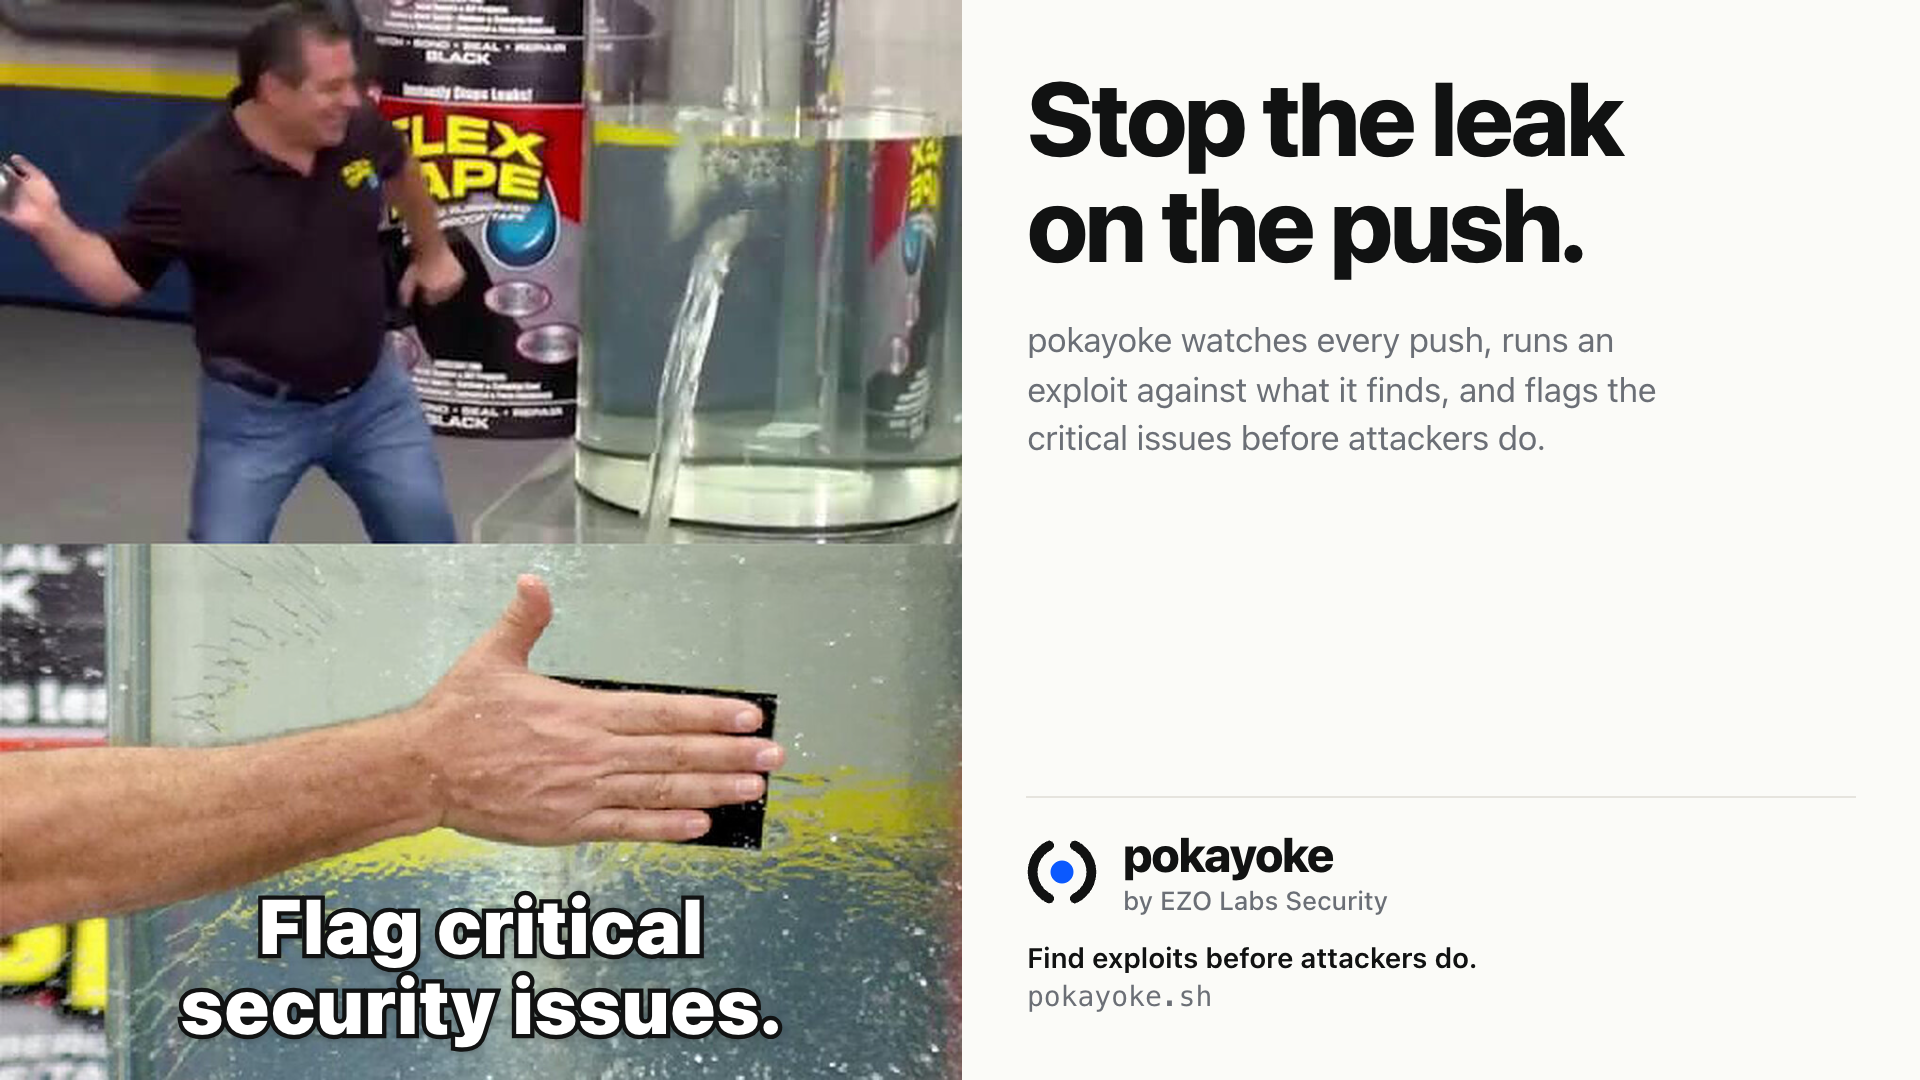
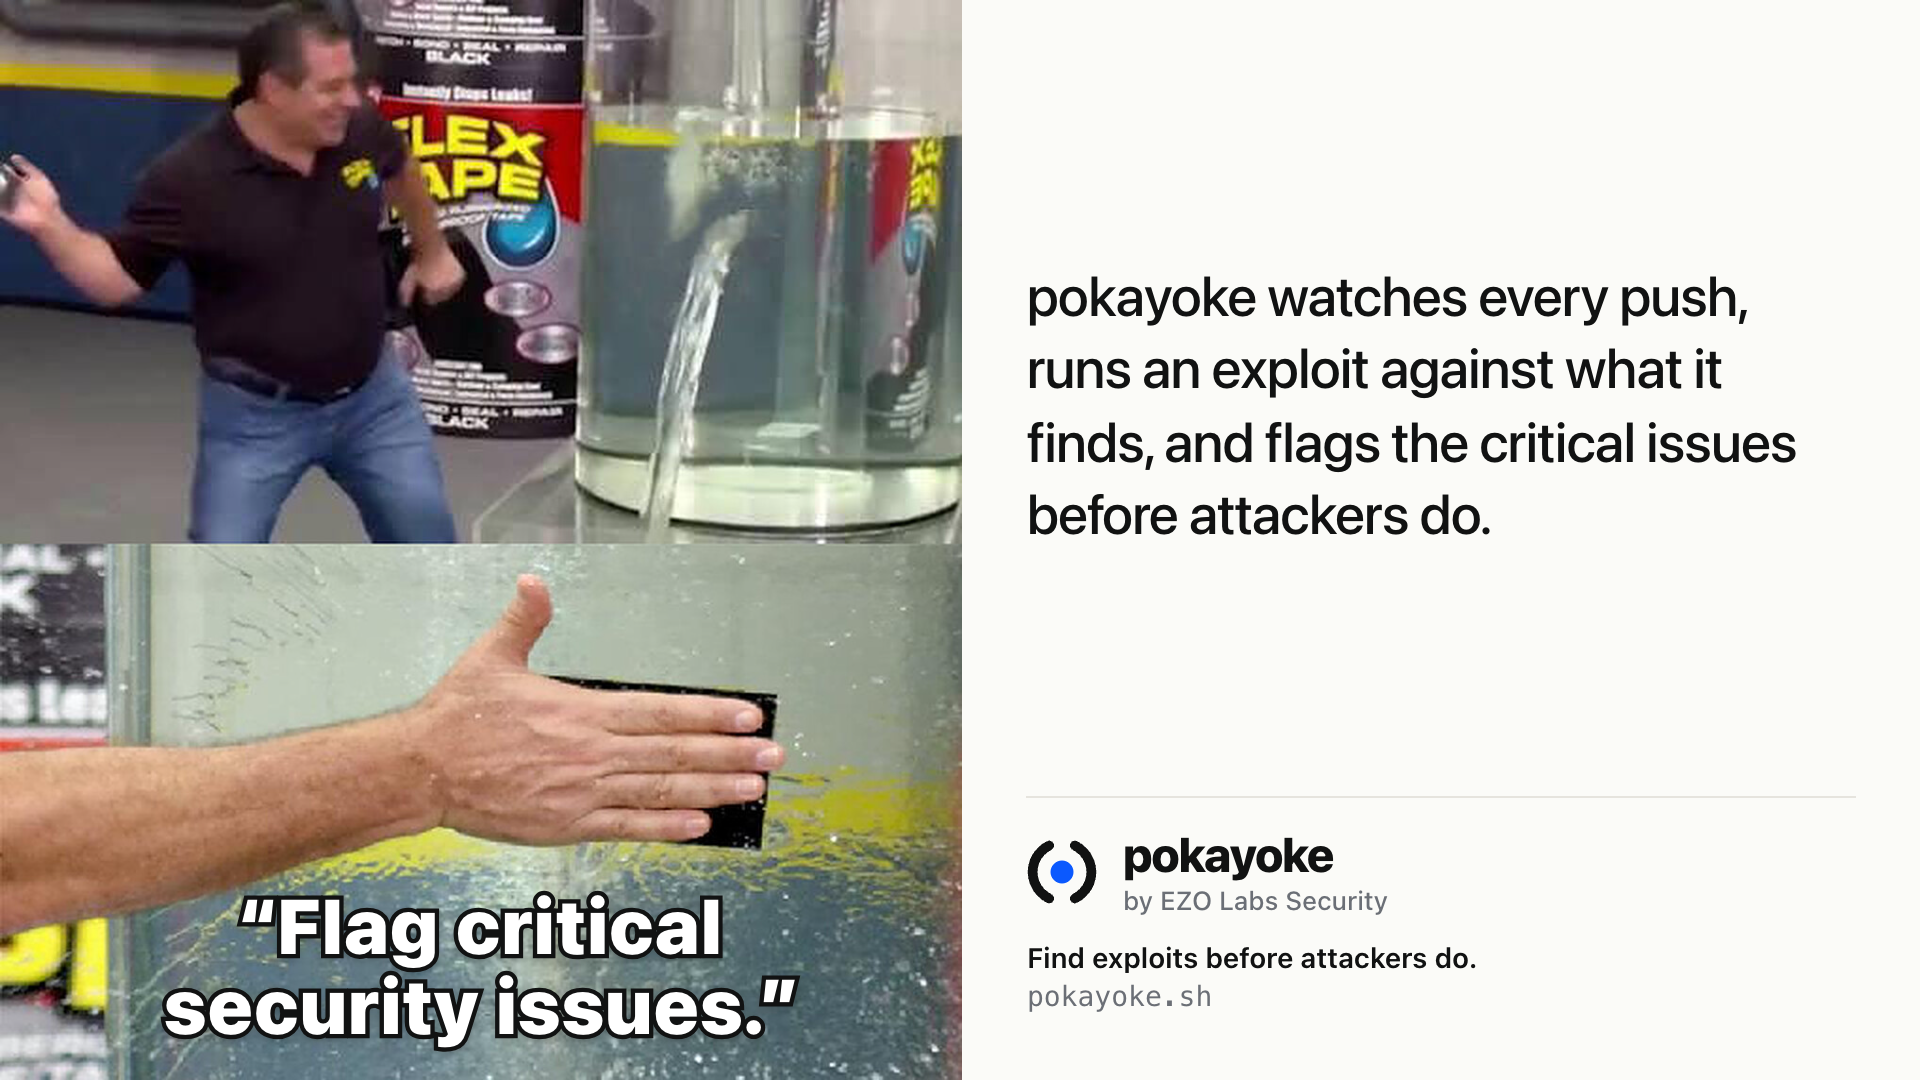
PKY-0006: put the meme's bottom text in quotation marks and drop the "Stop the leak on the push." headline

Changed region(s): [[0.5312, 0.0611, 0.9375, 0.4278], [0.0625, 0.825, 0.4375, 0.9778], [0.5312, 0.4583, 0.7812, 0.5194]]

diff --git a/ads/PKY-0006/ad.html b/ads/PKY-0006/ad.html
@@ -10,8 +10,9 @@
 <link rel="stylesheet" href="../../brand/tokens.css">
 <!--
   Meme: Flex Tape (imgflip template 166969924, the same frames as the user's image), upscaled 2x to meme.jpg
-  (1020x1144). The user asked for "Flag critical security issues." at the bottom: it is the meme's bottom text.
-  Layouts: 16:9 meme left, panel right. 4:5 meme full width over a brand band. 9:16 hook, meme, brand band.
+  (1020x1144). The user asked for "Flag critical security issues." at the bottom, in quotation marks: it is the
+  meme's bottom text. No headline: the meme carries the ad.
+  Layouts: 16:9 meme left, panel right. 4:5 meme full width over a brand band. 9:16 meme, then line and brand band.
 -->
 <style>
   :root { --frame-w: 960px; --frame-h: 540px; }
@@ -27,7 +28,7 @@
     color: var(--color-ink);
     -webkit-font-smoothing: antialiased;
   }
-  p, h1 { margin: 0; }
+  p { margin: 0; }
 
   .ad {
     width: 100%;
@@ -38,15 +39,11 @@
     grid-template-rows: 100%;
     grid-template-areas: "meme panel";
   }
-  [data-ratio="4x5"] .ad {
+  [data-ratio="4x5"] .ad,
+  [data-ratio="9x16"] .ad {
     grid-template-columns: 1fr;
     grid-template-rows: auto minmax(0, 1fr);
     grid-template-areas: "meme" "panel";
-  }
-  [data-ratio="9x16"] .ad {
-    grid-template-columns: 1fr;
-    grid-template-rows: auto auto minmax(0, 1fr);
-    grid-template-areas: "hook" "meme" "panel";
   }
 
   /* The meme and its bottom text, sized in the meme's own width (cqw) so it reads the same in every ratio */
@@ -58,7 +55,7 @@
     position: absolute;
     left: 50%;
     bottom: 3.5cqw;
-    width: 92%;
+    width: 94%;
     transform: translateX(-50%);
     text-align: center;
     text-wrap: balance;
@@ -72,38 +69,29 @@
     text-shadow: 0 0.4cqw 1.2cqw color-mix(in srgb, var(--color-ink) 45%, transparent);
   }
 
-  /* Hook, line and lockup. The hook sits above the meme in 9:16 and inside the panel in 16:9. */
-  .ad > .hook { display: none; }
-  [data-ratio="9x16"] .ad > .hook { display: block; }
-  .hook {
-    font-size: 52px;
-    font-weight: 800;
-    letter-spacing: -1.8px;
-    line-height: 1.02;
-    text-wrap: balance;
-  }
-  [data-ratio="9x16"] .hook {
-    grid-area: hook;
-    padding: var(--space-40) var(--space-40) var(--space-24);
-    font-size: 60px;
-    letter-spacing: -2.2px;
-  }
+  /* The line and the lockup */
   .panel {
     grid-area: panel;
     min-height: 0;
-    padding: var(--space-32) var(--space-32);
+    padding: var(--space-32);
     display: flex;
     flex-direction: column;
-    gap: var(--space-20);
+    gap: var(--space-24);
   }
-  [data-ratio="9x16"] .panel .hook,
-  [data-ratio="4x5"] .panel .hook,
-  [data-ratio="9x16"] .line,
+  .line {
+    margin-block: auto;
+    max-width: 24ch;
+    font-size: 28px;
+    font-weight: 500;
+    letter-spacing: -0.6px;
+    line-height: 1.3;
+    text-wrap: pretty;
+  }
+  [data-ratio="9x16"] .panel { padding: var(--space-32) var(--space-40) var(--space-40); }
+  [data-ratio="9x16"] .line { max-width: none; font-size: 24px; letter-spacing: -0.4px; }
   [data-ratio="4x5"] .line { display: none; }
-  .line { font-size: 17px; line-height: 1.45; color: var(--color-muted); text-wrap: pretty; max-width: 32ch; }
 
   .sign {
-    margin-top: auto;
     display: flex;
     flex-direction: column;
     align-items: flex-start;
@@ -117,44 +105,37 @@
   .byline { margin-top: var(--space-4); font-size: 13px; font-weight: 500; color: var(--color-muted); line-height: 1.2; }
   .tagline { font-size: 14px; font-weight: 600; line-height: 1.35; }
   .tagline .url { display: block; font-family: var(--font-mono); font-weight: 400; color: var(--color-muted); }
-  [data-ratio="9x16"] .lockup svg { width: 44px; height: 44px; }
-  [data-ratio="9x16"] .wordmark { font-size: 28px; }
-  [data-ratio="9x16"] .byline { font-size: 14px; }
-  [data-ratio="9x16"] .tagline { font-size: 18px; }
 
-  /* 4:5 and 9:16: the meme fills the width, so the brand runs as one band beneath it */
+  /* 4:5 and 9:16: the brand runs as one band under the meme (9:16 keeps the line above it) */
   [data-ratio="4x5"] .panel { padding: 0 var(--space-24); justify-content: center; }
-  [data-ratio="9x16"] .panel { padding: 0 var(--space-40); justify-content: center; }
   [data-ratio="4x5"] .sign,
   [data-ratio="9x16"] .sign {
-    margin-top: 0;
-    padding-top: 0;
-    border-top: 0;
     flex-direction: row;
     align-items: center;
     justify-content: space-between;
     gap: var(--space-16);
   }
+  [data-ratio="4x5"] .sign { padding-top: 0; border-top: 0; }
   [data-ratio="4x5"] .lockup svg { width: 30px; height: 30px; }
   [data-ratio="4x5"] .wordmark { font-size: 21px; }
   [data-ratio="4x5"] .byline { display: none; }
   [data-ratio="4x5"] .tagline { font-size: 13px; text-align: right; }
+  [data-ratio="9x16"] .sign { padding-top: var(--space-24); }
   [data-ratio="9x16"] .lockup { flex: none; }
-  [data-ratio="9x16"] .byline { white-space: nowrap; }
-  [data-ratio="9x16"] .tagline { text-align: right; text-wrap: balance; }
+  [data-ratio="9x16"] .lockup svg { width: 44px; height: 44px; }
+  [data-ratio="9x16"] .wordmark { font-size: 28px; }
+  [data-ratio="9x16"] .byline { font-size: 14px; white-space: nowrap; }
+  [data-ratio="9x16"] .tagline { font-size: 18px; text-align: right; text-wrap: balance; }
 </style>
 </head>
 <body>
 <main class="ad">
-  <h1 class="hook">Stop the leak on the push.</h1>
-
   <div class="meme">
     <img src="meme.jpg" width="1020" height="1144" alt="">
-    <p class="caption">Flag critical security issues.</p>
+    <p class="caption">“Flag critical security issues.”</p>
   </div>
 
   <section class="panel">
-    <h1 class="hook">Stop the leak on the push.</h1>
     <p class="line">pokayoke watches every push, runs an exploit against what it finds, and flags the critical issues before attackers do.</p>
     <footer class="sign">
       <div class="lockup">

diff --git a/ads/manifest.js b/ads/manifest.js
@@ -3,7 +3,7 @@
 window.POKAYOKE_ADS = [
   {
     id: 'PKY-0006',
-    alt: 'pokayoke ad. Stop the leak on the push. The Flex Tape meme: a pitchman with a tank of water gushing from a hole, then a hand slapping tape over the leak, with the bottom text: Flag critical security issues. pokayoke watches every push, runs an exploit against what it finds, and flags the critical issues before attackers do. Find exploits before attackers do. pokayoke.sh',
+    alt: 'pokayoke ad. The Flex Tape meme: a pitchman with a tank of water gushing from a hole, then a hand slapping tape over the leak, with the bottom text in quotes: "Flag critical security issues." pokayoke watches every push, runs an exploit against what it finds, and flags the critical issues before attackers do. Find exploits before attackers do. pokayoke.sh',
   },
   {
     id: 'PKY-0005',

diff --git a/memes/manifest.js b/memes/manifest.js
@@ -222,9 +222,9 @@ window.POKAYOKE_MEMES = [
     fit: 'The leak gets slapped shut the moment it shows: pokayoke as the tape.',
     panels: [
       ['Pitchman and the gushing tank', 'Your repo, springing a leak'],
-      ['Bottom text, over the tape', 'Flag critical security issues.'],
+      ['Bottom text, over the tape', '"Flag critical security issues."'],
     ],
-    line: 'Stop the leak on the push.',
+    line: 'pokayoke watches every push, runs an exploit against what it finds, and flags the critical issues before attackers do.',
     ad: 'PKY-0006',
     rights: 'redraw',
     rightsNote: 'Infomercial still of a real person, with the Flex Tape brand in shot: redraw with a generic pitchman for paid ads.',

diff --git a/README.md b/README.md
@@ -31,7 +31,7 @@ git config credential.https://KiltroKills@github.com.helper \
 
 | ID | Message | Files |
 |---|---|---|
-| PKY-0006 | "Stop the leak on the push." Flex Tape meme with the bottom text "Flag critical security issues." (meme bank MEME-12; `captioned.png` is the meme alone) | [`ads/PKY-0006/`](ads/PKY-0006/) |
+| PKY-0006 | Flex Tape meme with the bottom text, in quotes, "Flag critical security issues." (meme bank MEME-12; `captioned.png` is the meme alone) | [`ads/PKY-0006/`](ads/PKY-0006/) |
 | PKY-0005 | "Who's next?" Grim reaper doors meme: GitHub and Meta already hit, the last door is YOUR REPO ([TechCrunch](https://techcrunch.com/2026/05/20/github-says-hackers-stole-data-from-thousands-of-internal-repositories/), [SecurityWeek](https://www.securityweek.com/meta-says-hackers-took-code-personal-data-of-1500-in-github-breach/)) | [`ads/PKY-0005/`](ads/PKY-0005/) |
 | PKY-0001 | Link your repo, scan for vulnerabilities, get one clear critical count | [`ads/PKY-0001/`](ads/PKY-0001/) |
 
